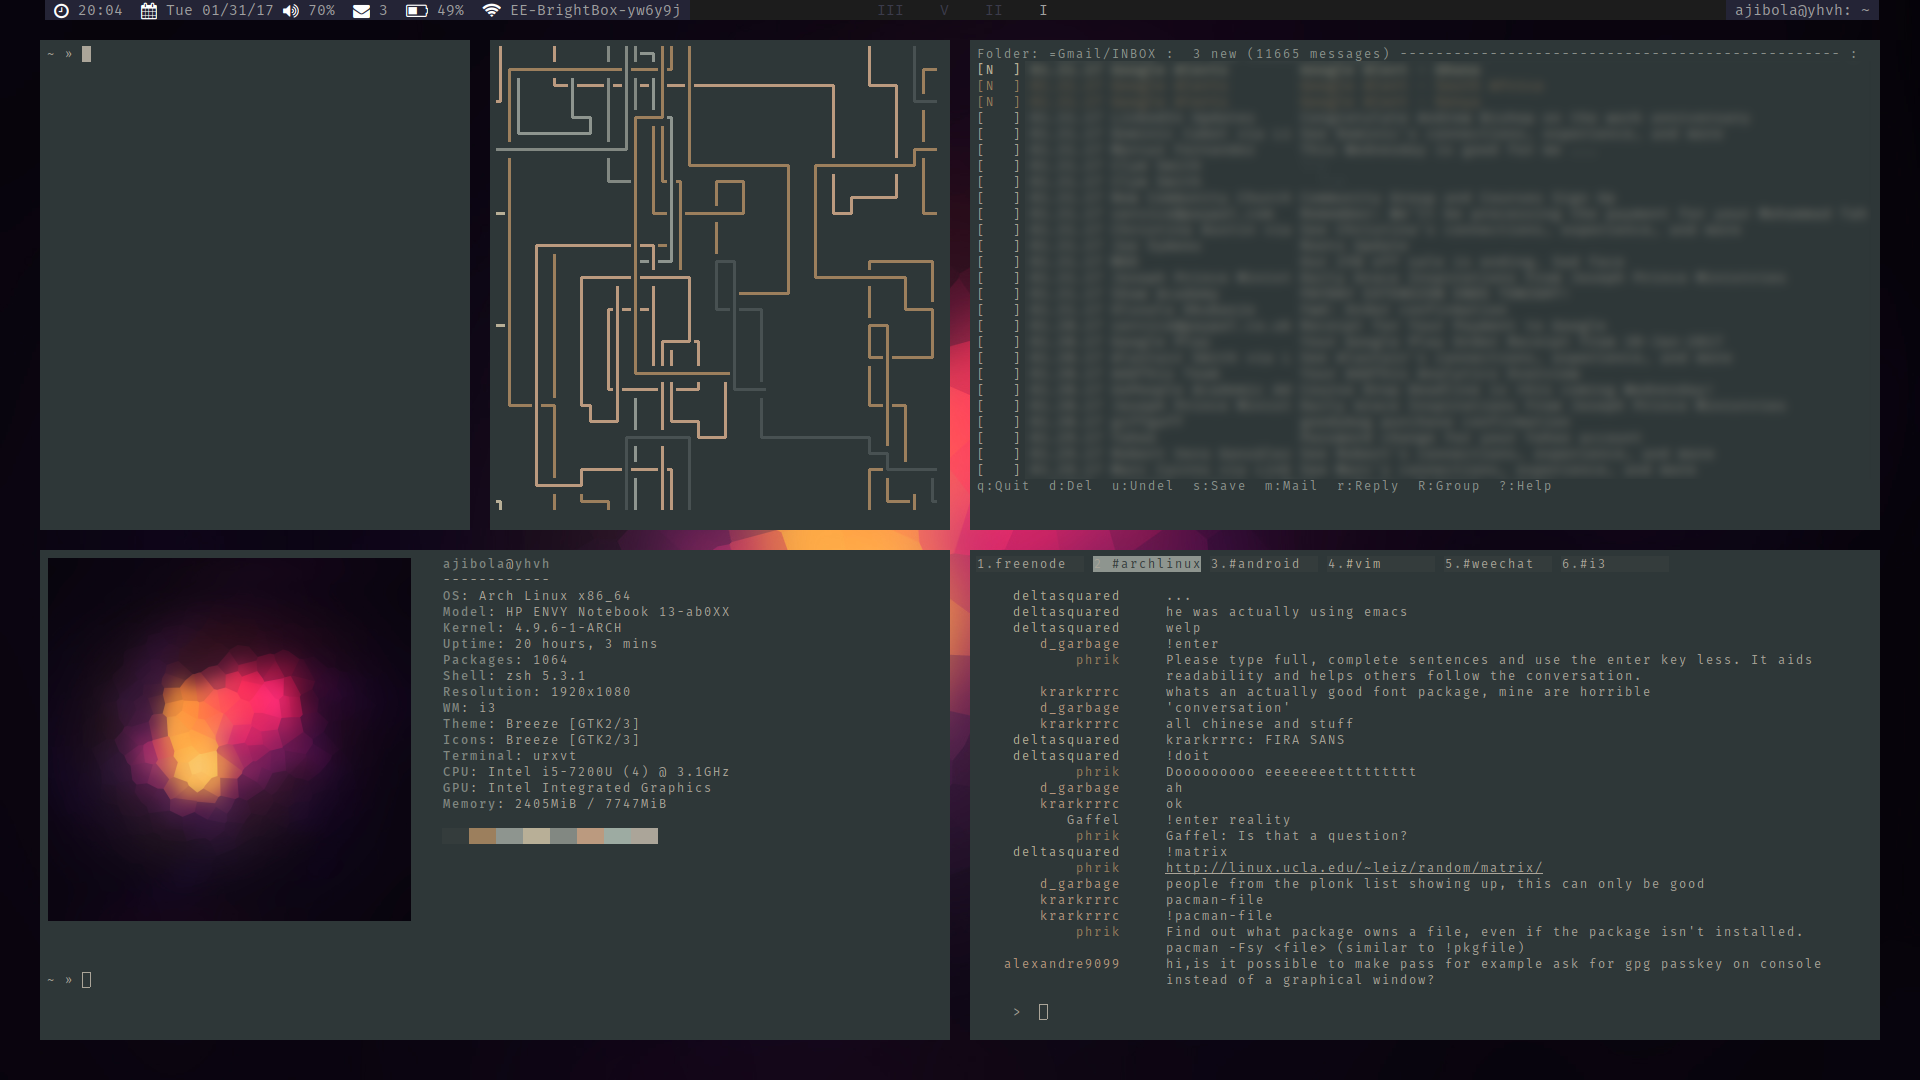
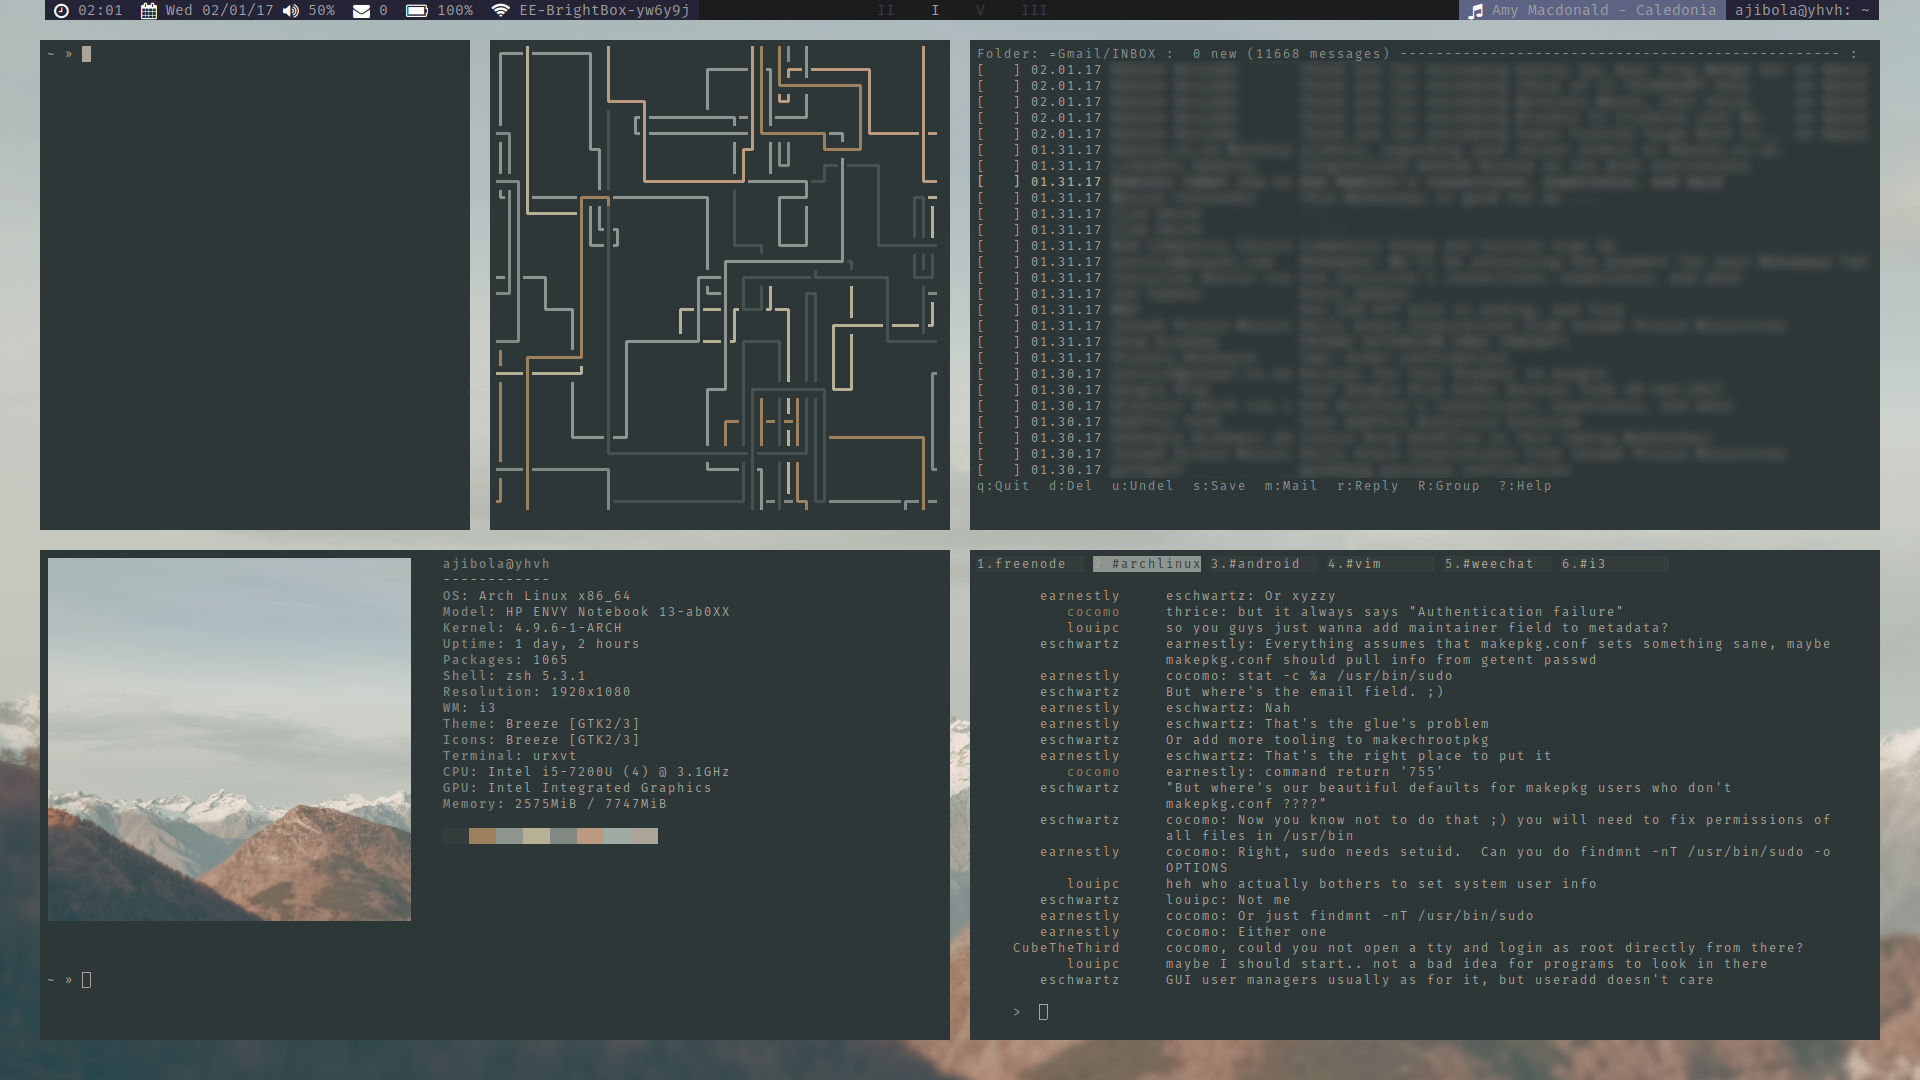
new screenshot

diff --git a/README.md b/README.md
@@ -65,7 +65,7 @@ color scheme: [diner](/Xresources.d/colors/depth)
 
 ### Wallpaper
 
-Wallpaper from [DeviantART](http://mushcube.deviantart.com/art/Space-380838916)
+Wallpaper from [DeviantART](http://mahm0udwally.deviantart.com/art/Mountain-III-506611364)
 
 
 &nbsp;
